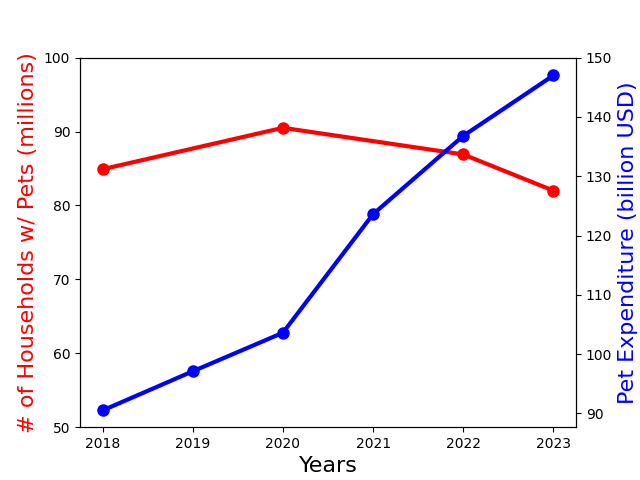
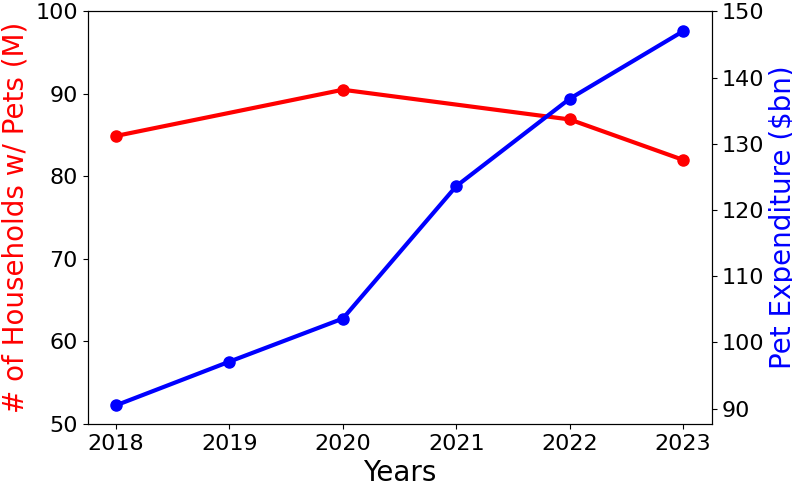
hh-expenditure rev

Changed region(s): [[0.0, 0.0, 1.0, 1.0]]

diff --git a/model2/code/householdsAndSpending.py b/model2/code/householdsAndSpending.py
@@ -1,11 +1,11 @@
 import numpy as np
 import matplotlib.pyplot as plt
 
-everyYear = [2018, 2019, 2020, 2021, 2022, 2023]
-numOfHouseholdsWithPetsYears = [2018, 2020, 2022, 2023]
+everyYear = [2018, 2019, 2020, 2021, 2022, 2023, 2024]
+numOfHouseholdsWithPetsYears = [2018, 2020, 2022, 2023, 2024]
 
-numOfHouseholdsWithPets = [84.9, 90.5, 86.9, 82]
-petCareSpending = [90.5, 97.1, 103.6, 123.6, 136.8, 147]
+numOfHouseholdsWithPets = [84.9, 90.5, 86.9, 82, 94]
+petCareSpending = [90.5, 97.1, 103.6, 123.6, 136.8, 147, 151.9]
 
 fig, ax1 = plt.subplots()
 ax2 = ax1.twinx()
@@ -15,10 +15,16 @@ ax1.plot(numOfHouseholdsWithPetsYears, numOfHouseholdsWithPets,
 ax2.plot(everyYear, petCareSpending,
          color="blue", marker="o", linewidth=3, markersize=8)
 
-ax1.set_xlabel("Years", fontsize=16)
-ax1.set_ylabel("# of Households w/ Pets (millions)", color="red", fontsize=16)
+ax1.set_xlabel("Years", fontsize=20)
+ax1.set_ylabel("# of Households w/ Pets (M)", color="red", fontsize=20)
 ax1.set_yticks(np.arange(50,101,10))
-ax2.set_ylabel("Pet Expenditure (billion USD)", color="blue", fontsize=16)
+ax2.set_ylabel("Pet Expenditure ($bn)", color="blue", fontsize=20)
 ax2.set_yticks(np.arange(90,151,10))
+
+ax1.tick_params(axis='both', labelsize=16)
+ax2.tick_params(axis='both', labelsize=16)
+
+# plt.tick_params(labelsize=16)
+# plt.rcParams["font.size"] = 16
 
 plt.show()
